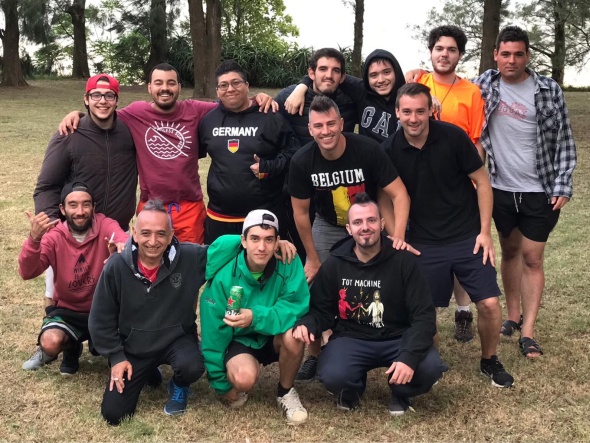
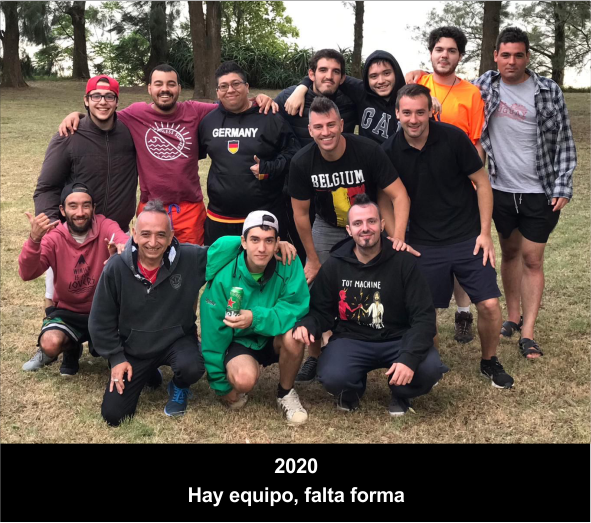
cambiando un detalle

diff --git a/src/components/Meeting.js b/src/components/Meeting.js
@@ -1,6 +1,6 @@
 import React from 'react';
 import './styles/meeting.css';
-import imgMeet from '../images/logo_reunion.png';
+import imgMeet from '../images/logos/logo_reunion.png';
 
 import { Swiper, SwiperSlide } from 'swiper/react';
 import 'swiper/css';
@@ -68,14 +68,14 @@ function Meeting() {
                                     <div className='meet_pic_pic'>
                                         <img alt='Foto de Juntada' src={meet0} />
                                     </div>
-                                    <div className='meet_pic_text'>
+                                    {/* <div className='meet_pic_text'>
                                         2017<br/>Actúa normal que es simplemente una chica gamer…<br/>
-                                    </div>
+                                    </div> */}
                                 </SwiperSlide>
                                 <SwiperSlide className='meet_pic_container'>
-                                    <div className='meet_pic_text'>
+                                    {/* <div className='meet_pic_text'>
                                         2017<br/>De quien era el cumple?<br/>
-                                    </div>
+                                    </div> */}
                                     <div className='meet_pic_pic'>
                                         <img alt='Foto de Juntada' src={meet1} />
                                     </div>
@@ -84,14 +84,14 @@ function Meeting() {
                                     <div className='meet_pic_pic'>
                                         <img alt='Foto de Juntada' src={meet2} />
                                     </div>
-                                    <div className='meet_pic_text'>
+                                    {/* <div className='meet_pic_text'>
                                         2019<br/>Bien Alcohompañados<br/>
-                                    </div>
+                                    </div> */}
                                 </SwiperSlide>
                                 <SwiperSlide className='meet_pic_container'>
-                                    <div className='meet_pic_text'>
+                                    {/* <div className='meet_pic_text'>
                                         2019<br/>Esa altura de la noche donde ya no quedan las mejores poses<br/>
-                                    </div>
+                                    </div> */}
                                     <div className='meet_pic_pic'>
                                         <img alt='Foto de Juntada' src={meet3} />
                                     </div>
@@ -100,14 +100,14 @@ function Meeting() {
                                     <div className='meet_pic_pic'>
                                         <img alt='Foto de Juntada' src={meet4} />
                                     </div>
-                                    <div className='meet_pic_text'>
+                                    {/* <div className='meet_pic_text'>
                                         2019<br/>Libertad… el lider no está presente<br/>
-                                    </div>
+                                    </div> */}
                                 </SwiperSlide>
                                 <SwiperSlide className='meet_pic_container'>
-                                    <div className='meet_pic_text'>
+                                    {/* <div className='meet_pic_text'>
                                         2020<br/>Hay equipo, falta forma<br/>
-                                    </div>
+                                    </div> */}
                                     <div className='meet_pic_pic'>
                                         <img alt='Foto de Juntada' src={meet5} />
                                     </div>
@@ -116,14 +116,14 @@ function Meeting() {
                                     <div className='meet_pic_pic'>
                                         <img alt='Foto de Juntada' src={meet6} />
                                     </div>
-                                    <div className='meet_pic_text'>
+                                    {/* <div className='meet_pic_text'>
                                         2020<br/>El nono ya no se levanta<br/>
-                                    </div>
+                                    </div> */}
                                 </SwiperSlide>
                                 <SwiperSlide className='meet_pic_container'>
-                                    <div className='meet_pic_text'>
+                                    {/* <div className='meet_pic_text'>
                                         2020<br/>medios ebriormidos<br/>
-                                    </div>
+                                    </div> */}
                                     <div className='meet_pic_pic'>
                                         <img alt='Foto de Juntada' src={meet7} />
                                     </div>
@@ -132,9 +132,9 @@ function Meeting() {
                                     <div className='meet_pic_pic'>
                                         <img alt='Foto de Juntada' src={meet8} />
                                     </div>
-                                    <div className='meet_pic_text'>
+                                    {/* <div className='meet_pic_text'>
                                         2020<br/>La barrera se arma de frente a la pelota, caóticos!<br/>
-                                    </div>
+                                    </div> */}
                                 </SwiperSlide>
                                 
                         </Swiper>

diff --git a/src/components/Members.js b/src/components/Members.js
@@ -1,14 +1,14 @@
 import React from 'react';
 import './styles/members.css';
-import imgIntegrantes from '../images/logo_integrantes.png';
+import imgIntegrantes from '../images/logos/logo_integrantes.png';
 
-import fotoTigre from '../images/member_tigre.png';
+import fotoTigre from '../images/memb/member_tigre.png';
 import audioTigre from '../sounds/Tigre.mp3';
-import fotoCuervo from '../images/member_cuervo.png';
+import fotoCuervo from '../images/memb/member_cuervo.png';
 import audioCuervo from '../sounds/Cuervo.mp3';
-import fotoNicol from '../images/member_nicol.png';
+import fotoNicol from '../images/memb/member_nicol.png';
 import audioNicol from '../sounds/Nicol.mp3';
-import fotoFibe from '../images/member_fibe.png';
+import fotoFibe from '../images/memb/member_fibe.png';
 import audioFibe from '../sounds/Fibe.mp3';
 
 let tigreSound = new Audio(audioTigre);

diff --git a/src/components/Games.js b/src/components/Games.js
@@ -1,11 +1,11 @@
 import React from 'react';
 import './styles/games.css';
-import imgGames from '../images/logo_juegos.png';
-import imgAssassins from '../images/games_assassins.png';
-import imgPaladins from '../images/games_paladins.png';
-import imgWarface from '../images/games_warface.png';
-import imgIron from '../images/games_iron.png';
-import imgRainbow from '../images/games_rainbow.png';
+import imgGames from '../images/logos/logo_juegos.png';
+import imgAssassins from '../images/games/games_assassins.png';
+import imgPaladins from '../images/games/games_paladins.png';
+import imgWarface from '../images/games/games_warface.png';
+import imgIron from '../images/games/games_iron.png';
+import imgRainbow from '../images/games/games_rainbow.png';
 import AOS from 'aos';
 import 'aos/dist/aos.css';
 

diff --git a/src/components/Header.js b/src/components/Header.js
@@ -1,9 +1,9 @@
 import './styles/header.css';
 import Swal from 'sweetalert2';
-import logoOne from '../images/logo_uno.png';
-import logoTwo from '../images/logo_dos.png';
-import fun from '../images/fun.png';
-import funTwo from '../images/funTwo.png';
+import logoOne from '../images/logos/logo_uno.png';
+import logoTwo from '../images/logos/logo_dos.png';
+import fun from '../images/misc/fun.png';
+import funTwo from '../images/misc/funTwo.png';
 
 let cont = 0;
 

diff --git a/src/components/Footer.js b/src/components/Footer.js
@@ -1,7 +1,7 @@
-import './styles/footer.css';
-import logoMail from '../images/logo_mail.png';
-import logoLinkedin from '../images/logo_linkedin.png';
 import React from 'react';
+import './styles/footer.css';
+import logoMail from '../images/logos/logo_mail.png';
+import logoLinkedin from '../images/logos/logo_linkedin.png';
 
 function toMail() {
     window.open('mailto:loustau.exequiel@gmail.com', '_blank');

diff --git a/src/components/Links.js b/src/components/Links.js
@@ -1,6 +1,6 @@
 import './styles/links.css';
 
-import imgLinks from '../images/logo_redes.png';
+import imgLinks from '../images/logos/logo_redes.png';
 import React from 'react';
 
 function youTubeClan () {
